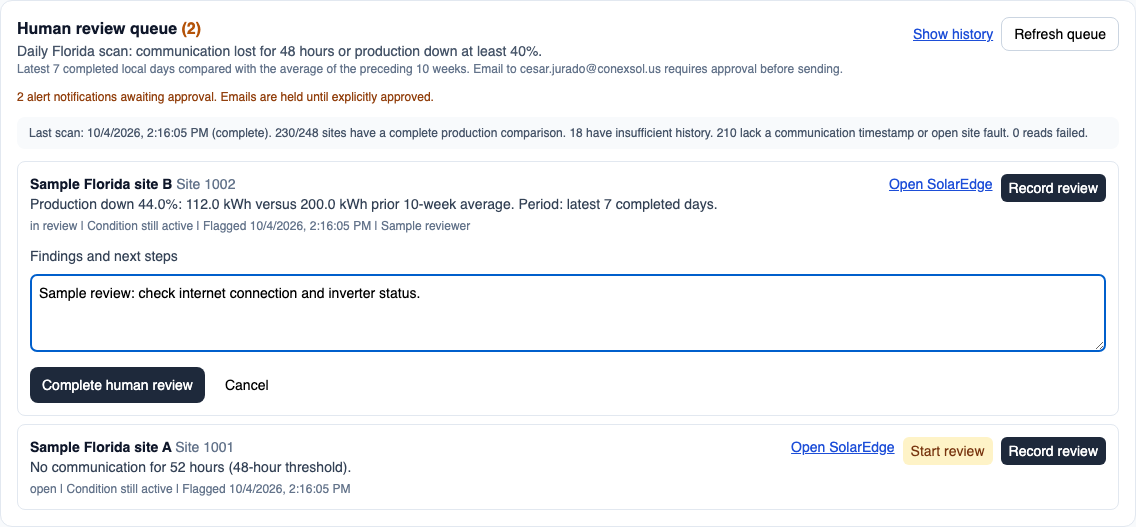
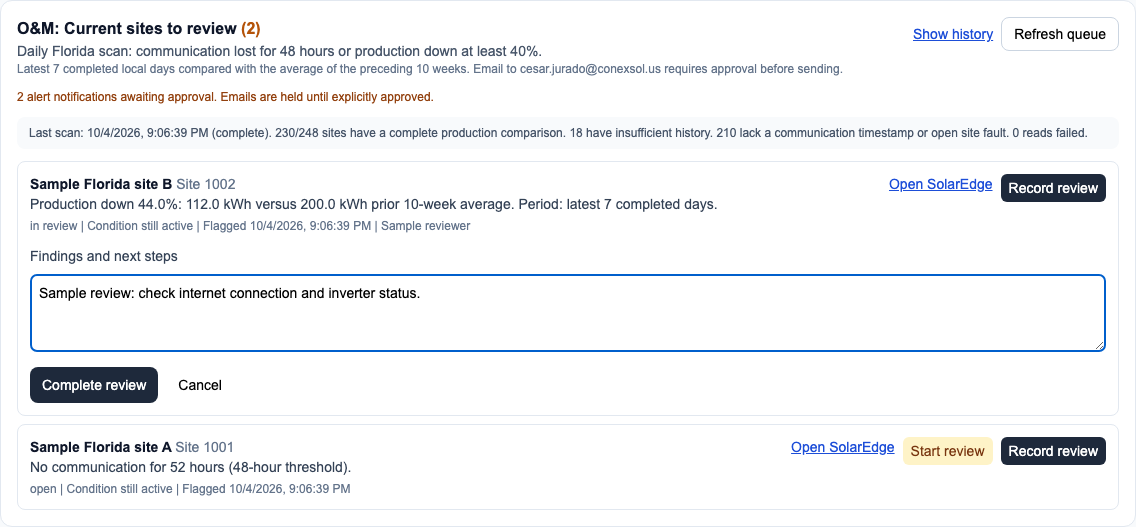
Use SolarOps O&M language for review reports and email subjects

diff --git a/solarflow-dashboard/src/components/ProductionReviewQueue.tsx b/solarflow-dashboard/src/components/ProductionReviewQueue.tsx
@@ -26,7 +26,7 @@ export function ProductionReviewQueue({ role }: { role?: string }) {
   const stale = run && Date.now() - Date.parse(run.completedAt || run.startedAt) > 36 * 3600000;
   return <section className="rounded-xl border border-slate-200 bg-white p-4 space-y-3" aria-label="Production review queue">
     <div className="flex flex-wrap items-start justify-between gap-3">
-      <div><h2 className="font-semibold text-slate-900">Human review queue <span className="text-amber-700">({pending.length})</span></h2>
+      <div><h2 className="font-semibold text-slate-900">O&M: Current sites to review <span className="text-amber-700">({pending.length})</span></h2>
         <p className="text-sm text-slate-600">Daily Florida scan: communication lost for 48 hours or production down at least 40%.</p>
         <p className="text-xs text-slate-500">Latest 7 completed local days compared with the average of the preceding 10 weeks. Email to cesar.jurado@conexsol.us requires approval before sending.</p></div>
       <div className="flex gap-2"><button type="button" className="text-sm text-blue-700 underline" onClick={() => setHistory(!history)}>{history ? 'Show pending' : 'Show history'}</button>
@@ -38,10 +38,10 @@ export function ProductionReviewQueue({ role }: { role?: string }) {
       Last scan: {new Date(run.completedAt || run.startedAt).toLocaleString()} ({run.status}). {run.checked}/{run.total} sites have a complete production comparison. {run.insufficient} have insufficient history. {run.unknownCommunication} lack a communication timestamp or open site fault. {run.errors} reads failed.
       {stale && ' Scan is overdue. Results may be stale.'}{run.error && ` ${run.error}`}
     </div> : state && <p className="text-sm text-slate-600">Awaiting the first fleet scan. No health conclusion is available yet.</p>}
-    {state && !rows.length && <p className="text-sm text-slate-600">{history ? 'No review history yet.' : 'No pending human reviews.'}</p>}
+    {state && !rows.length && <p className="text-sm text-slate-600">{history ? 'No review history yet.' : 'No sites awaiting review.'}</p>}
     <div className="space-y-2">{[...rows].reverse().map(review => <article key={review.id} className="rounded-lg border border-slate-200 p-3">
       <div className="flex flex-wrap justify-between gap-2"><div><h3 className="text-sm font-semibold text-slate-900">{review.name} <span className="font-normal text-slate-500">Site {review.siteId}</span></h3>
-        <p className="text-sm text-slate-700">{review.finding.detail}</p><p className="text-xs text-slate-500 mt-1">{review.status.replace('_', ' ')} | {review.active ? 'Condition still active' : review.status === 'reviewed' ? 'Condition recovered' : 'Condition recovered; human review remains required'} | Flagged {new Date(review.openedAt).toLocaleString()}{review.reviewer && ` | ${review.reviewer}`}</p>
+        <p className="text-sm text-slate-700">{review.finding.detail}</p><p className="text-xs text-slate-500 mt-1">{review.status.replace('_', ' ')} | {review.active ? 'Condition still active' : review.status === 'reviewed' ? 'Condition recovered' : 'Condition recovered; review still open'} | Flagged {new Date(review.openedAt).toLocaleString()}{review.reviewer && ` | ${review.reviewer}`}</p>
         {review.notes && <p className="text-sm text-slate-600 mt-1">Review: {review.notes}</p>}</div>
         <div className="flex flex-wrap items-start gap-2"><a className="text-sm text-blue-700 underline" href={`https://monitoring.solaredge.com/one#/residential/digital-twin?siteId=${review.siteId}`} target="_blank" rel="noreferrer">Open SolarEdge</a>
           {canReview && review.status === 'open' && <button disabled={busy} onClick={() => void save(review, 'in_review')} className="text-sm rounded-md bg-amber-100 text-amber-900 px-2 py-1">Start review</button>}
@@ -49,7 +49,7 @@ export function ProductionReviewQueue({ role }: { role?: string }) {
           {canReview && review.status === 'reviewed' && <button disabled={busy} onClick={() => void save(review, 'open')} className="text-sm text-blue-700 underline">Reopen review</button>}</div></div>
       {selected?.id === review.id && <form className="mt-3 space-y-2" onSubmit={e => { e.preventDefault(); void save(review, 'reviewed'); }}>
         <label className="block text-sm text-slate-700" htmlFor="production-review-notes">Findings and next steps</label><textarea id="production-review-notes" required maxLength={2000} value={notes} onChange={e => setNotes(e.target.value)} className="w-full rounded-md border border-slate-300 p-2 text-sm" rows={3} />
-        <div className="flex gap-2"><button disabled={busy || !notes.trim()} className="bg-slate-800 text-white rounded-lg px-3 py-2 text-sm disabled:opacity-50">Complete human review</button><button type="button" onClick={() => setSelected(null)} className="text-sm px-3 py-2">Cancel</button></div>
+        <div className="flex gap-2"><button disabled={busy || !notes.trim()} className="bg-slate-800 text-white rounded-lg px-3 py-2 text-sm disabled:opacity-50">Complete review</button><button type="button" onClick={() => setSelected(null)} className="text-sm px-3 py-2">Cancel</button></div>
       </form>}
     </article>)}</div>
   </section>;

diff --git a/solarflow-dashboard/src/__tests__/productionReviewQueue.test.tsx b/solarflow-dashboard/src/__tests__/productionReviewQueue.test.tsx
@@ -14,19 +14,19 @@ describe('production review queue interactions', () => {
   it('keeps recovered incidents pending and toggles review history', async () => {
     vi.mocked(authedFetch).mockResolvedValue(new Response(JSON.stringify({ reviews: [review], recipients: [] })));
     await act(async () => root.render(<ProductionReviewQueue role="technician" />));
-    expect(container.textContent).toContain('Condition recovered; human review remains required'); expect(button('Record review')).toBeUndefined();
+    expect(container.textContent).toContain('Condition recovered; review still open'); expect(button('Record review')).toBeUndefined();
     await act(async () => button('Show history').click()); expect(button('Show pending')).toBeDefined();
   });
   it('requires notes, completes a review and submits the selected incident', async () => {
     vi.mocked(authedFetch).mockImplementation(async (_url, options) => new Response(JSON.stringify({ reviews: [{ ...review, status: options?.method === 'POST' ? 'reviewed' : 'open' }], recipients: [] })));
     await act(async () => root.render(<ProductionReviewQueue role="support" />));
-    await act(async () => button('Record review').click()); expect(button('Complete human review').disabled).toBe(true);
+    await act(async () => button('Record review').click()); expect(button('Complete review').disabled).toBe(true);
     const textarea = container.querySelector('textarea')!;
     await act(async () => { textarea.value = 'Weather checked. Follow up tomorrow.'; Simulate.change(textarea); });
-    expect(button('Complete human review').disabled).toBe(false);
+    expect(button('Complete review').disabled).toBe(false);
     await act(async () => Simulate.submit(container.querySelector('form')!));
     const options = vi.mocked(authedFetch).mock.calls[1]![1]!;
-    expect(JSON.parse(options.body as string)).toEqual({ id: 'test-incident', status: 'reviewed', notes: 'Weather checked. Follow up tomorrow.' }); expect(container.textContent).toContain('No pending human reviews.');
+    expect(JSON.parse(options.body as string)).toEqual({ id: 'test-incident', status: 'reviewed', notes: 'Weather checked. Follow up tomorrow.' }); expect(container.textContent).toContain('No sites awaiting review.');
   });
   it('shows a readable error for a stale endpoint response', async () => {
     vi.mocked(authedFetch).mockResolvedValue(new Response('{"sites":{}}'));

diff --git a/solarflow-dashboard/src/__tests__/productionReviewEmail.test.ts b/solarflow-dashboard/src/__tests__/productionReviewEmail.test.ts
@@ -16,7 +16,7 @@ describe('review email delivery', () => {
   it('escapes site names, uses a clear subject and only acknowledges after a receipt', async () => {
     vi.stubEnv('RESEND_API_KEY', 'test'); const fetch = vi.fn().mockResolvedValue(new Response('{"id":"email-test"}')); vi.stubGlobal('fetch', fetch);
     await sendAlerts([review], emailApprovalDigest([review])); const options = fetch.mock.calls[0]![1]; const body = JSON.parse(options.body);
-    expect(body.to).toEqual(['cesar.jurado@conexsol.us']); expect(body.subject).toContain('1 Florida site needs human review | 40% production drop'); expect(body.html).toContain('&lt;script&gt;'); expect(body.html).not.toContain('<script>'); expect(options.headers['Idempotency-Key']).toMatch(/^production-review-/);
+    expect(body.to).toEqual(['cesar.jurado@conexsol.us']); expect(body.subject).toBe('O&M: Current sites to review'); expect(body.html).toContain('&lt;script&gt;'); expect(body.html).not.toContain('<script>'); expect(options.headers['Idempotency-Key']).toMatch(/^production-review-/);
     const callback = vi.mocked(updateState).mock.calls[0]![0]; expect(callback({ reviews: [review], recipients: [] }).reviews[0]).toMatchObject({ notificationId: 'email-test' });
   });
   it('keeps alerts pending if a successful response has no delivery receipt', async () => {
@@ -29,7 +29,7 @@ it('uses SMTP when enabled and records acceptance before marking notified', asyn
   vi.stubEnv('SMTP_ENABLED', 'true');
   const sendMail = vi.fn().mockResolvedValue({ messageId: '<receipt@example.com>', accepted: ['cesar.jurado@conexsol.us'] }); const close = vi.fn();
   vi.mocked(smtpTransport).mockReturnValue({ sendMail, close } as never);
-  await sendAlerts([review], emailApprovalDigest([review])); expect(close).toHaveBeenCalled(); expect(sendMail.mock.calls[0]![0].subject).toContain('40% production drop');
+  await sendAlerts([review], emailApprovalDigest([review])); expect(close).toHaveBeenCalled(); expect(sendMail.mock.calls[0]![0].subject).toBe('O&M: Current sites to review');
   const change = vi.mocked(updateState).mock.calls[0]![0]; expect(change({ reviews: [review], recipients: [] }).reviews[0]).toMatchObject({ notificationId: 'smtp:<receipt@example.com>' });
 });
 it('keeps SMTP rejections pending and closes the connection', async () => {

diff --git a/solarflow-dashboard/src/__tests__/productionReview.test.ts b/solarflow-dashboard/src/__tests__/productionReview.test.ts
@@ -35,7 +35,7 @@ describe('Florida production review', () => {
     const failure = evaluate(site, [], null, now); failure.error = '429'; state = reconcile(state, [failure]); expect(state.reviews[0]!.active).toBe(true);
     state = reconcile(state, [evaluate(site, [], readings(700), now)]); expect(state.reviews[0]!.active).toBe(false);
     state = reconcile(state, [{ ...finding, checkedAt: '2026-10-06T11:00:00Z' }]); expect(state.reviews).toHaveLength(2); expect(state.reviews[1]!.status).toBe('open');
-    expect(reviewSubject(state.reviews)).toContain('1 Florida site needs');
+    expect(reviewSubject(state.reviews)).toBe('O&M: Current sites to review');
   });
   it('covers explicit Florida and naming fallback, excluding other states', () => {
     expect(floridaSite(site)).toBe(true); expect(floridaSite({ ...site, location: { state: 'Georgia' } })).toBe(false); expect(floridaSite({ ...site, location: {} })).toBe(true);

diff --git a/api/_productionReview.ts b/api/_productionReview.ts
@@ -68,10 +68,8 @@ export function reconcile(state: ReviewState, evaluations: Evaluation[]): Review
   }
   return { ...state, reviews, recipients: [...RECIPIENTS] };
 }
-export function reviewSubject(reviews: Review[]): string {
-  const kinds = [...new Set(reviews.map(r => r.kind === 'communication' ? '48h communication outage' : '40% production drop'))].join(' / ');
-  const count = new Set(reviews.map(r => r.siteId)).size;
-  return `SolarOps: ${count} Florida ${count === 1 ? 'site needs' : 'sites need'} human review | ${kinds}`;
+export function reviewSubject(_reviews: Review[]): string {
+  return 'O&M: Current sites to review';
 }
 
 /** DAY resolution permits at most one month. Buffers include local boundary days. */

diff --git a/docs-production-monitor.md b/docs-production-monitor.md
@@ -9,15 +9,15 @@ All SolarEdge v2 sites and alerts are paginated. Explicit Florida/FL locations a
 - Communication: an open SITE_COMMUNICATION_FAULT or RAPID_SITE_COMMUNICATION_FAULT with SolarEdge `firstTrigger` at least 48 hours old, or a timezone-qualified lastUpdateTime at least 48 hours old. Inverter-only communication faults do not establish a whole-site outage. Poll timestamps and null energy values do not establish communication loss. Sites without evidence are counted as unknown communication coverage.
 - Production: latest seven completed days in each site's timezone versus the arithmetic average of the ten preceding, nonoverlapping seven-day periods. Production at or below 60% of that average triggers review. All 77 daily values must be finite and nonnegative; missing/null readings are insufficient data, while actual zero is valid. A zero baseline cannot establish a percentage decline.
 - The scan runs daily. A communication threshold crossing is detected at the next successful scan, rather than exactly at hour 48.
-- Weather and seasonality are not automatically corrected. These flags request human online review, not a diagnosis.
+- Weather and seasonality are not automatically corrected. These flags request an O&M site review; they do not establish a diagnosis.
 
 Daily energy requests are split into windows below SolarEdge's one-month limit. Requests are paced below 25 per minute and retry 429/5xx responses. History is cached, with recent ten-day refreshes and a complete refresh every seven days. Initial scans require roughly three energy calls per site. Progress is persisted every 25 sites. A failed site read cannot clear an existing incident or turn missing production into zero.
 
 ## Queue and email
 
-Open SolarOps, SolarEdge Monitoring. The human review queue shows open and in-review incidents, scan coverage, failures, and stale scan warnings. Operations staff can start reviews and complete them with findings/next steps. History retains the reviewer and notes. Recovery does not silently complete the human review. A recovered condition that reappears creates a new incident.
+Open SolarOps, SolarEdge Monitoring. The O&M review list shows open and in-review incidents, scan coverage, failures, and stale scan warnings. Operations staff can start reviews and complete them with findings/next steps. History retains the reviewer and notes. Recovery does not silently complete the review. A recovered condition that reappears creates a new incident.
 
-New incidents prepare notifications to cesar.jurado@conexsol.us and hold them for explicit approval. Subjects state the number of Florida sites and the trigger, such as `SolarOps: 3 Florida sites need human review | 48h communication outage / 40% production drop`. Links open individual SolarEdge sites and the SolarOps queue. Successfully notified unresolved incidents are not resent. Failed delivery remains pending for another approved attempt. Resend's idempotency key reduces duplicate delivery during retries; delivery and database acknowledgement are not one atomic transaction.
+New incidents prepare notifications to cesar.jurado@conexsol.us and hold them for explicit approval. Subject and report title: `O&M: Current sites to review`. The report subtitle identifies Florida and the site count. Findings and thresholds stay in the report body. SolarOps navy and gold styling matches the application. Links open individual SolarEdge sites and the SolarOps queue. Successfully notified unresolved incidents are not resent. Failed delivery remains pending for another approved attempt. Resend's idempotency key reduces duplicate delivery during retries; delivery and database acknowledgement are not one atomic transaction.
 
 ## Deployment and storage
 

diff --git a/UI_SCREEN_CATALOG.md b/UI_SCREEN_CATALOG.md
@@ -4,12 +4,14 @@
 
 _Last captured: 2026-10-04 - 27/27 screens - viewport 1440x900_
 
+Refreshed this run: production-review-queue. Other screenshots retained from the previous capture.
+
 Text-only routing reference: [UI_UX_SCREEN_MAP.md](UI_UX_SCREEN_MAP.md)
 
 ## Contents
 
 - **Authentication & Onboarding**: [Staff Login](#staff-login) / [Forgot Password](#forgot-password) / [Reset Password](#reset-password) / [Contractor Login](#contractor-login)
-- **Staff App (admin role)**: [Ops Center](#dispatch) / [Dashboard](#dashboard) / [Customers](#customers) / [SolarEdge Sites](#solaredge) / [Florida Production Review Queue](#production-review-queue) / [SolarEdge Alerts Map](#solaredge-alerts-map) / [Work Orders](#jobs) / [LL Board (lead funnel)](#ll-board) / [LL LeadPanel (Trello lead)](#ll-lead-panel) / [Service order: Send to Trello](#so-send-to-trello) / [Dispatch Map](#routes) / [RMA Tracker](#rma) / [Billing](#billing) / [Billing (Kanban)](#billing-kanban) / [Contractor Pay](#contractor-billing) / [Service Rates](#rates) / [Messages (Internal Messenger)](#messages) / [Contractors](#contractors) / [New Install](#projects) / [Inventory](#inventory) / [Settings](#settings)
+- **Staff App (admin role)**: [Ops Center](#dispatch) / [Dashboard](#dashboard) / [Customers](#customers) / [SolarEdge Sites](#solaredge) / [O&M: Current sites to review](#production-review-queue) / [SolarEdge Alerts Map](#solaredge-alerts-map) / [Work Orders](#jobs) / [LL Board (lead funnel)](#ll-board) / [LL LeadPanel (Trello lead)](#ll-lead-panel) / [Service order: Send to Trello](#so-send-to-trello) / [Dispatch Map](#routes) / [RMA Tracker](#rma) / [Billing](#billing) / [Billing (Kanban)](#billing-kanban) / [Contractor Pay](#contractor-billing) / [Service Rates](#rates) / [Messages (Internal Messenger)](#messages) / [Contractors](#contractors) / [New Install](#projects) / [Inventory](#inventory) / [Settings](#settings)
 - **Sales Role**: [Sales CRM](#crm)
 - **Contractor Portal**: [Contractor Dashboard](#my-jobs)
 
@@ -108,22 +110,22 @@ Text-only routing reference: [UI_UX_SCREEN_MAP.md](UI_UX_SCREEN_MAP.md)
 <a id="solaredge"></a>
 
 - **id:** `solaredge` (view `solaredge`)
-- **Macro:** SolarEdge Florida monitoring and human production review queue.
+- **Macro:** SolarEdge Florida monitoring and O&M review list.
 - **Detail:** Daily 48-hour communication and 40% production-drop review queue, coverage and scan status, review notes and history. Site grid, charts, import and service orders.
 
 ![SolarEdge Sites](ui-catalog/screens/admin/solaredge.png)
 
 ---
 
-## Florida Production Review Queue
+## O&M: Current sites to review
 
 <a id="production-review-queue"></a>
 
 - **id:** `production-review-queue` (view `solaredge`)
-- **Macro:** Human online review for prolonged communication loss and weekly production decline.
-- **Detail:** Embedded in SolarEdge Monitoring. Start review, required findings/next steps, completion and history. Public catalog uses sample sites from check-production-review-ui.mjs.
+- **Macro:** Current Florida sites to review for communication and production issues.
+- **Detail:** Embedded in SolarEdge Monitoring. Start review, required findings/next steps, completion and history. Email notifications require explicit approval. Public catalog uses sample sites from check-production-review-ui.mjs.
 
-![Florida Production Review Queue](ui-catalog/screens/admin/production-review-queue.png)
+![O&M: Current sites to review](ui-catalog/screens/admin/production-review-queue.png)
 
 ---
 
